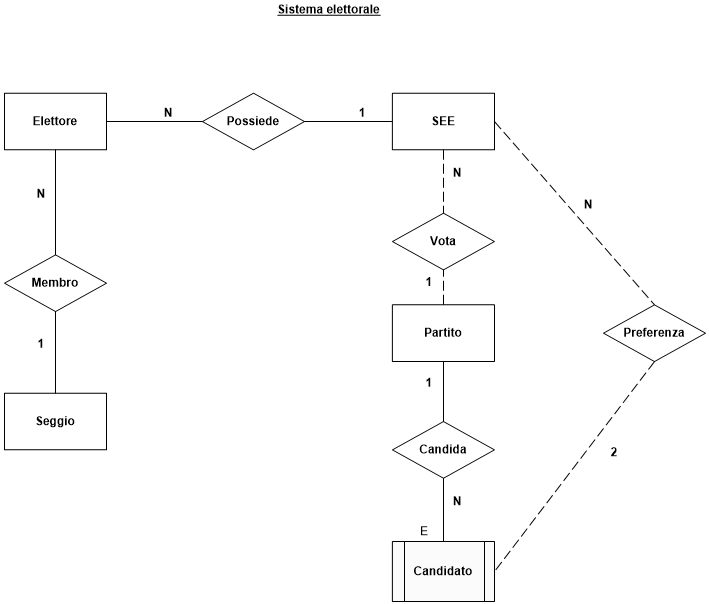
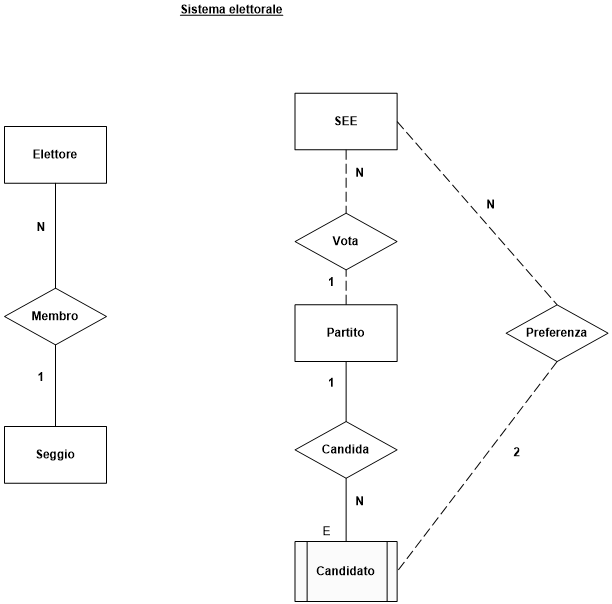
implemented anonymous votes

diff --git a/pages/vota.php b/pages/vota.php
@@ -6,7 +6,7 @@
         header("Location: ../");
     }
 
-    $sql = "select id_see, conteggiato, pin from see where id_elettore = ?";
+    $sql = "select id_see, conteggiato, votato, pin from see, elettore where id_elettore = ?";
 
     $stmt = $conn->prepare($sql);
     $stmt->bind_param("s", $_SESSION["codice_tessera_elettorale"]);
@@ -18,16 +18,35 @@
         $row = $result->fetch_assoc();
         $_SESSION["pin"] = $row["pin"];
 
-        if($row["conteggiato"] == 1){
+        if($row["conteggiato"] == 1 && $row["votato"] == 1){
             $_SESSION["pin"] = -1;
         }
     }else{
-        $sql = "insert into see (id_elettore, pin) values (?, ?)";
+
+        $sql = "select votato from elettore where codice_tessera_elettorale = ?";
         $stmt = $conn->prepare($sql);
-        $pin = rand(10000, 99999);
-        $stmt->bind_param("si", $_SESSION["codice_tessera_elettorale"], $pin);
+        $stmt->bind_param("s", $_SESSION["codice_tessera_elettorale"]);
         $stmt->execute();
-        $_SESSION["pin"] = $pin;
+
+        $result = $stmt->get_result();
+
+        if($result->num_rows > 0){
+            $row = $result->fetch_assoc();
+            $votato = $row["votato"];
+
+            if($votato == 0){
+                $sql = "insert into see (id_elettore, pin) values (?, ?)";
+                $stmt = $conn->prepare($sql);
+                $pin = rand(10000, 99999);
+                $stmt->bind_param("si", $_SESSION["codice_tessera_elettorale"], $pin);
+                $stmt->execute();
+                $_SESSION["pin"] = $pin;
+            }else{
+                $_SESSION["pin"] = -1;
+            }    
+        }
+
+        
     }
 
 ?>

diff --git a/pages/spoglio.php b/pages/spoglio.php
@@ -77,7 +77,7 @@
         }
 
         //seleziona i votanti per fascia d'età calcola l'eta da data di nascita
-        $sql = "select count(*) as voti, year(data_nascita) as eta from elettore, see where elettore.codice_tessera_elettorale = see.id_elettore and conteggiato = 1 group by year(data_nascita)";
+        $sql = "select count(*) as voti, year(data_nascita) as eta from elettore where votato = 1 group by year(data_nascita)";
         $stmt = $conn->prepare($sql);
         $stmt->execute();
         $result = $stmt->get_result();
@@ -89,7 +89,7 @@
         }
 
         //seleziona i votanti per sesso
-        $sql = "select count(*) as voti, sesso from elettore, see where elettore.codice_tessera_elettorale  = see.id_elettore and conteggiato = 1 group by sesso";
+        $sql = "select count(*) as voti, sesso from elettore where votato = 1 group by sesso";
         $stmt = $conn->prepare($sql);
         $stmt->execute();
         $result = $stmt->get_result();

diff --git a/pages/ConfermaVoto.php b/pages/ConfermaVoto.php
@@ -27,7 +27,7 @@
 
 
 
-            $sql = "update see set conteggiato = 1, data_voto = curtime() where pin =?";
+            $sql = "update see,elettore set conteggiato = 1, votato = 1, see.id_elettore = '', data_voto = curtime() where pin =?";
             $stmt = $conn->prepare($sql);
             $stmt->bind_param('s', $_SESSION["pin"]);
             $stmt->execute();
